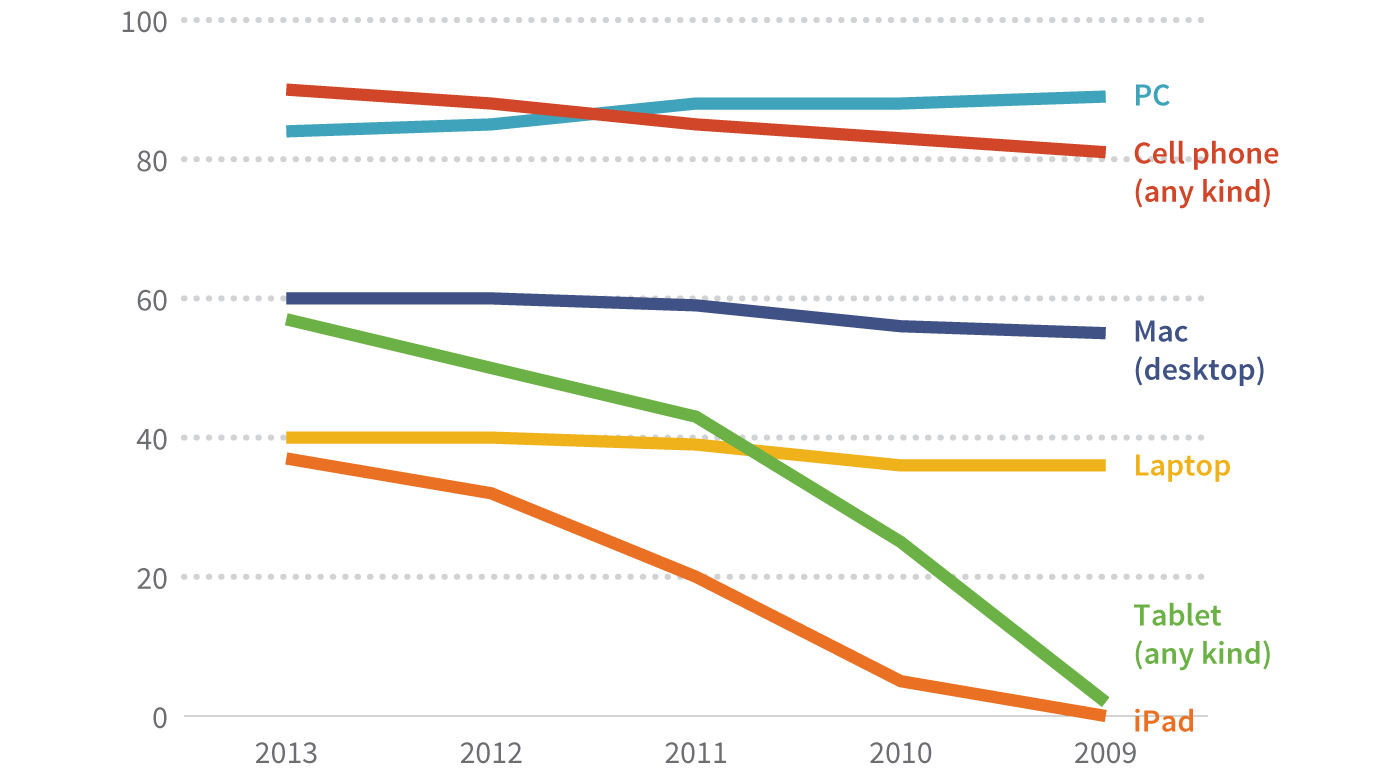
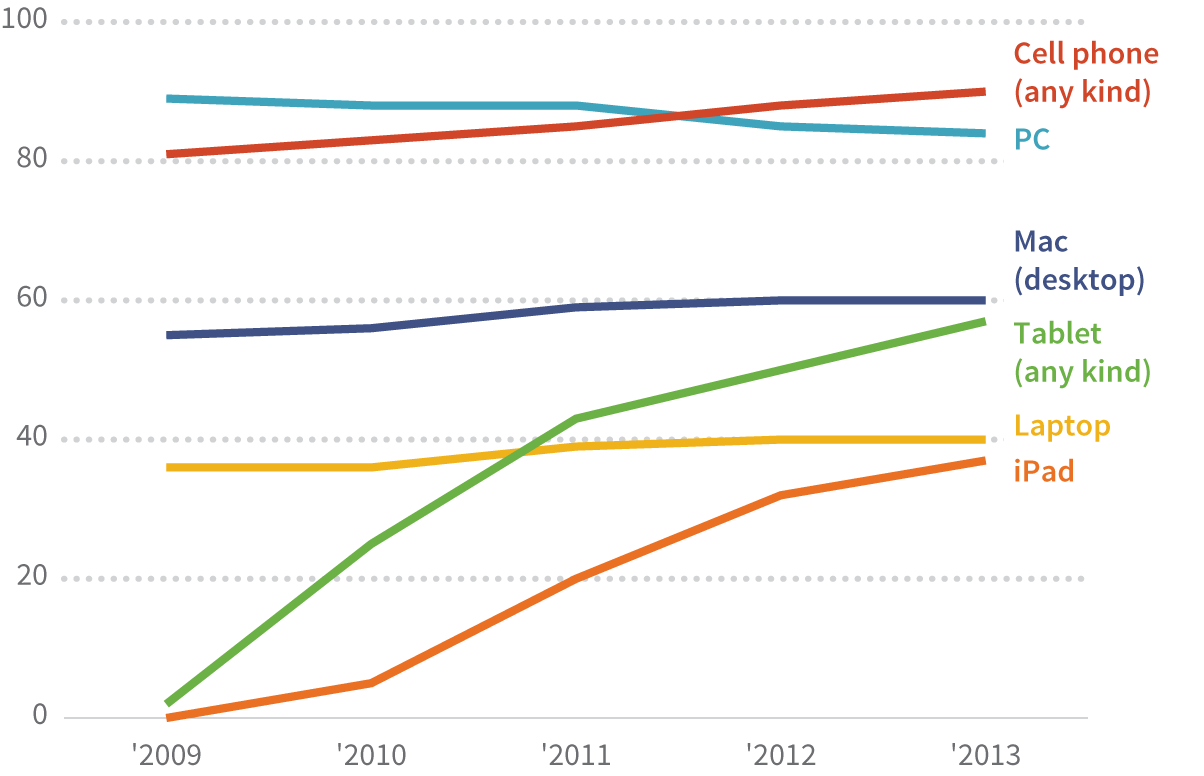
Add spreadsheet types to checkbox responses; replace graphic

diff --git a/05-visualizing-data/ch15-graphing-results-of-checkbox-response-questions.html b/05-visualizing-data/ch15-graphing-results-of-checkbox-response-questions.html
@@ -8,13 +8,12 @@
 </header>
 
 <section data-type="sect1">
-<h1>Checkbox responses</h1>
 
-<p>This chapter focuses on checkbox responses or multiple response questions, where a question can be answered with more than one answer, if applicable. </p>
+<p>This chapter focuses on checkbox responses or multiple response questions, where a question can be answered with more than one answer, if applicable.</p>
 
-<h2>Refresher on the difference between checkboxes and radio buttons</h2>
+<h2>Checkboxes vs. radio buttons</h2>
 
-<p>Let's say you're doing a survey and you're interested in what multimedia devices your respondents have used over the last 6 months. You would use a checkbox response question if you wanted to find out what all the devices were that people used over the six-month period. A radio button only allows respondents to select a single answer, so you could only use it to find out, for example, which one device a person used most often during the six-month period. Each type of question has merit, it just depends on what the purpose of your question is and how you are going to use the results. </p>
+<p>Let's say you're doing a survey and you're interested in what multimedia devices your respondents have used over the last six months. You would use a checkbox response question if you wanted to find out what all the devices were that people used over the six-month period. A radio button only allows respondents to select a single answer, so you could only use it to find out, for example, which one device a person used most often during the six-month period. Each type of question has merit, it just depends on what the purpose of your question is and how you are going to use the results. </p>
 
 <h2>What a checkbox question really is</h2>
 <p>So here's the most important thing to know about checkbox questions, and it's why you have to consider how you graph the results of checkbox questions differently than you do the results of other types of questions. Checkbox questions aren't really their own question type! They're actually just a shorthand way to write a <em>series</em> of yes/no questions. A respondent checks a box if an answer choice applies and leaves it blank if it doesn't. </p>
@@ -69,7 +68,6 @@
 <h2>How checkbox answers are received</h2>
 
 <p>How your results or raw data are compiled will, of course, depend on the program you are using to program your survey. One of the more common formats is shown in the table below; this particular data structure reflects how a checkbox question serves as a quick way to represent a series of yes/no questions. A &ldquo;1&rdquo; is shown when a device was selected and a &ldquo;0&rdquo; if a device was not selected.</p>
-
 
 <table>
 	<tbody>
@@ -199,8 +197,175 @@
 
 <p>You might also receive results like this: {TRINA PUT SOME STUFF HERE!}</p>
 
+<table>
+	<tbody>
+		<tr>
+			<th>Date</th>
+			<th>Response</th>
+    </tr>
+    <tr>
+			<td>10/02/2013</td>
+			<td>PC, Tablet, Cellphone</td>
+		</tr>
+		<tr>
+			<td>10/01/2013</td>
+			<td>Mac, iPad, Tablet, Cellphone</td>
+		</tr>
+		<tr>
+			<td>09/30/2013</td>
+			<td>PC, iPad, Cellphone</td>
+		</tr>
+		<tr>
+			<td>09/30/2013</td>
+			<td>PC, Tablet, Cellphone</td>
+		</tr>
+		<tr>
+			<td>09/30/2013</td>
+			<td>Mac, Laptop, Cellphone</td>
+		</tr>
+		<tr>
+			<td>09/30/2013</td>
+			<td>Mac, Tablet, Cellphone</td>
+		</tr>
+		<tr>
+			<td>09/30/2013</td>
+			<td>PC, Laptop, Cellphone</td>
+		</tr>
+		<tr>
+			<td>09/27/2013</td>
+			<td>PC, Laptop, Cellphone</td>
+		</tr>
+		<tr>
+			<td>09/26/2013</td>
+			<td>PC, Laptop, Cellphone</td>
+		</tr>
+		<tr>
+			<td>09/26/2013</td>
+			<td>None</td>
+		</tr>
+  </tbody>
+</table>
 
-<h2>How results of checkbox questions are special</h2>
+<p>Or like this:</p>
+
+<table>
+	<tbody>
+		<tr>
+			<th>Date</th>
+			<th>Q1_PC</th>
+			<th>Q1_Mac</th>
+			<th>Q1_Tablet</th>
+			<th>Q1_iPad</th>
+			<th>Q1_Laptop</th>
+			<th>Q1_Cellphone</th>
+			<th>Q1_None</th>
+		</tr>
+		<tr>
+			<td>10/02/2013</td>
+			<td>Q1_PC</td>
+			<td>&nbsp;</td>
+			<td>Q1_Tablet</td>
+			<td>&nbsp;</td>
+			<td>&nbsp;</td>
+			<td>Q1_Cellphone</td>
+			<td>&nbsp;</td>
+		</tr>
+		<tr>
+			<td>10/01/2013</td>
+			<td>&nbsp;</td>
+			<td>Q1_Mac</td>
+			<td>&nbsp;</td>
+			<td>Q1_iPad</td>
+			<td>Q1_Laptop</td>
+			<td>Q1_Cellphone</td>
+			<td>&nbsp;</td>
+		</tr>
+		<tr>
+			<td>09/30/2013</td>
+			<td>Q1_PC</td>
+			<td>&nbsp;</td>
+			<td>&nbsp;</td>
+			<td>Q1_iPad</td>
+			<td>&nbsp;</td>
+			<td>Q1_Cellphone</td>
+			<td>&nbsp;</td>
+		</tr>
+		<tr>
+			<td>09/30/2013</td>
+			<td>Q1_PC</td>
+			<td>&nbsp;</td>
+			<td>Q1_Tablet</td>
+			<td>&nbsp;</td>
+			<td>&nbsp;</td>
+			<td>Q1_Cellphone</td>
+			<td>&nbsp;</td>
+		</tr>
+		<tr>
+			<td>09/30/2013</td>
+			<td>&nbsp;</td>
+			<td>Q1_Mac</td>
+			<td>&nbsp;</td>
+			<td>&nbsp;</td>
+			<td>Q1_Laptop</td>
+			<td>Q1_Cellphone</td>
+			<td>&nbsp;</td>
+		</tr>
+		<tr>
+			<td>09/30/2013</td>
+			<td>&nbsp;</td>
+			<td>Q1_Mac</td>
+			<td>Q1_Tablet</td>
+			<td>&nbsp;</td>
+			<td>&nbsp;</td>
+			<td>Q1_Cellphone</td>
+			<td>&nbsp;</td>
+		</tr>
+		<tr>
+			<td>09/30/2013</td>
+			<td>Q1_PC</td>
+			<td>&nbsp;</td>
+			<td>&nbsp;</td>
+			<td>&nbsp;</td>
+			<td>Q1_Laptop</td>
+			<td>Q1_Cellphone</td>
+			<td>&nbsp;</td>
+		</tr>
+		<tr>
+			<td>09/27/2013</td>
+			<td>Q1_PC</td>
+			<td>&nbsp;</td>
+			<td>&nbsp;</td>
+			<td>&nbsp;</td>
+			<td>Q1_Laptop</td>
+			<td>Q1_Cellphone</td>
+			<td>&nbsp;</td>
+		</tr>
+		<tr>
+			<td>09/26/2013</td>
+			<td>Q1_PC</td>
+			<td>&nbsp;</td>
+			<td>&nbsp;</td>
+			<td>&nbsp;</td>
+			<td>Q1_Laptop</td>
+			<td>Q1_Cellphone</td>
+			<td>&nbsp;</td>
+		</tr>
+		<tr>
+			<td>09/26/2013</td>
+			<td>&nbsp;</td>
+			<td>&nbsp;</td>
+			<td>&nbsp;</td>
+			<td>&nbsp;</td>
+			<td>&nbsp;</td>
+			<td>&nbsp;</td>
+			<td>Q1_None</td>
+		</tr>
+	</tbody>
+</table>
+
+<p>All three of the above examples represent the same answers, but they're formatted in different ways. Since different survey collection tools format checkbox responses in different ways, you may need to reformat your data to match the specific format required by the visualization software you are using.</p>
+
+<h2>How checkbox question results are special</h2>
 
 <p>Let's take a look at a summary of possible responses to the checkbox question posed above.</p>
 <table class="tableizer-table">
@@ -255,9 +420,8 @@
 
 <p>Insert paragraph about grouping data (more than one device, etc)</p>
 
-<div class="warning"><b>Warning about pie charts and checkbox questions</b>
-<p>Don't use pie charts if you're basing your percentages on the number of respondents that selected each answer choice! Pie charts are used to represent part-to-whole relationships and the total percentage of all the groups has to equal 100%. Since the possible sum of the percentages is greater than 100% when you base these calculations on the number of respondents, pie charts are a very bad choice for displaying these results.</p></div>
-
+<div data-type="warning"><b>Warning about pie charts and checkbox questions</b>
+<p>Don't use pie charts if you're basing your percentages on the number of respondents that selected each answer choice! Pie charts are used to represent part-to-whole relationships and the total percentage of all the groups has to equal 100%. Since the possible sum of the percentages is greater than 100% when you base these calculations on the number of respondents, pie charts are an incorrect choice for displaying these results.</p></div>
 
 <h3>Over time</h3>
 
